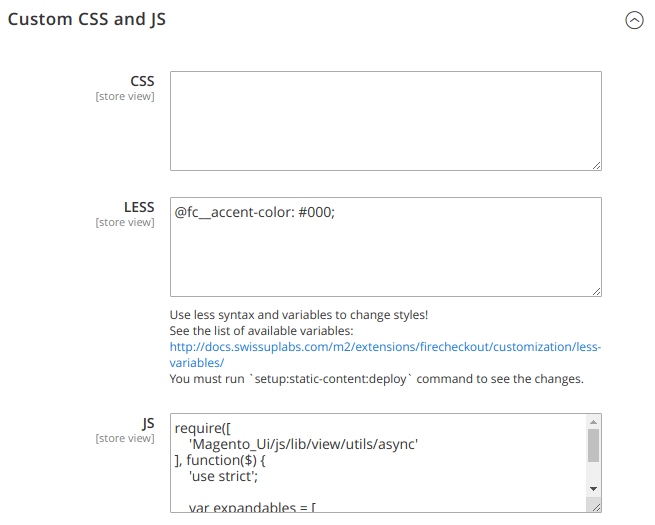
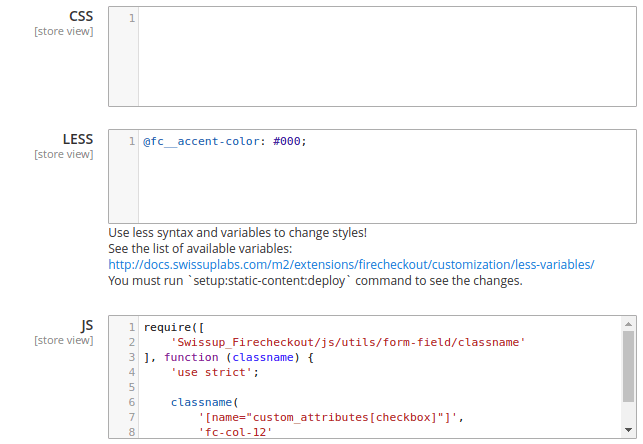
Firecheckout M2: 1.21.0

diff --git a/m2/extensions/firecheckout/changelog.md b/m2/extensions/firecheckout/changelog.md
@@ -8,6 +8,51 @@ category: Firecheckout
 
 # Changelog
 
+### Version 1.21.0
+
+> Jan 8, 2020
+
+ -  Added syntax highlighter to the "Custom CSS", "Custom JS", "Custom LESS".
+    [config fields](/m2/extensions/firecheckout/configuration/#custom-css-and-js-settings-section).
+    Writing custom styles and javascript is much more pleasant now.
+ -  16 locales added to translate backend and frontend phrases:
+    - Arabic
+    - Chinese
+    - Dutch
+    - French
+    - Hebrew
+    - Italian
+    - German
+    - Japanese
+    - Norwegian
+    - Korean
+    - Polish
+    - Portuguese
+    - Russian
+    - Spanish
+    - Swedish
+    - Ukrainian
+ -  Prevent unwanted order totals reload on initial page load.
+ -  Fixed order totals update when change shipping method when "Multistep Wizard"
+    layout is used.
+ -  Fixed missing "Custom LESS" styles when deploy static content from CLI.
+ -  Small css fixes.
+
+**Modules Updates**
+
+**swissup/module-checkout-fields — 1.4.0** (was 1.3.1)
+
+ -  Fixed error on order view page caused by wrong date format
+ -  Fixed missing checkout field values when making request through the Magento API
+
+**swissup/module-delivery-date — 1.5.0** (was 1.4.5)
+
+ -  Fixed possible error at checkout success page
+
+**swissup/module-orderattachment — 1.4.0** (was 1.3.4)
+
+ -  Fixed serialize error in full page cache module when downloading attachment
+
 ### Version 1.20.1
 
 > Oct 16, 2019
